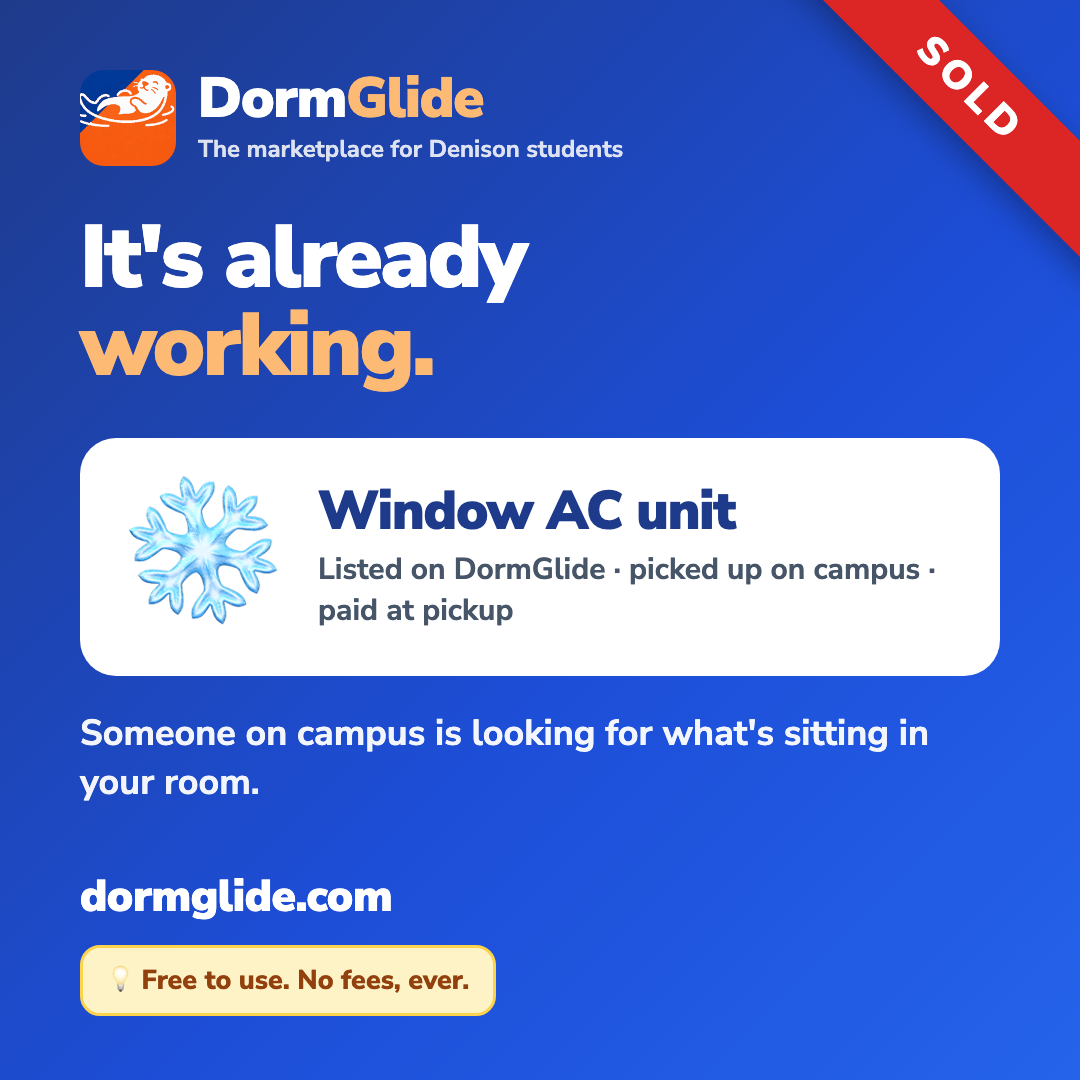
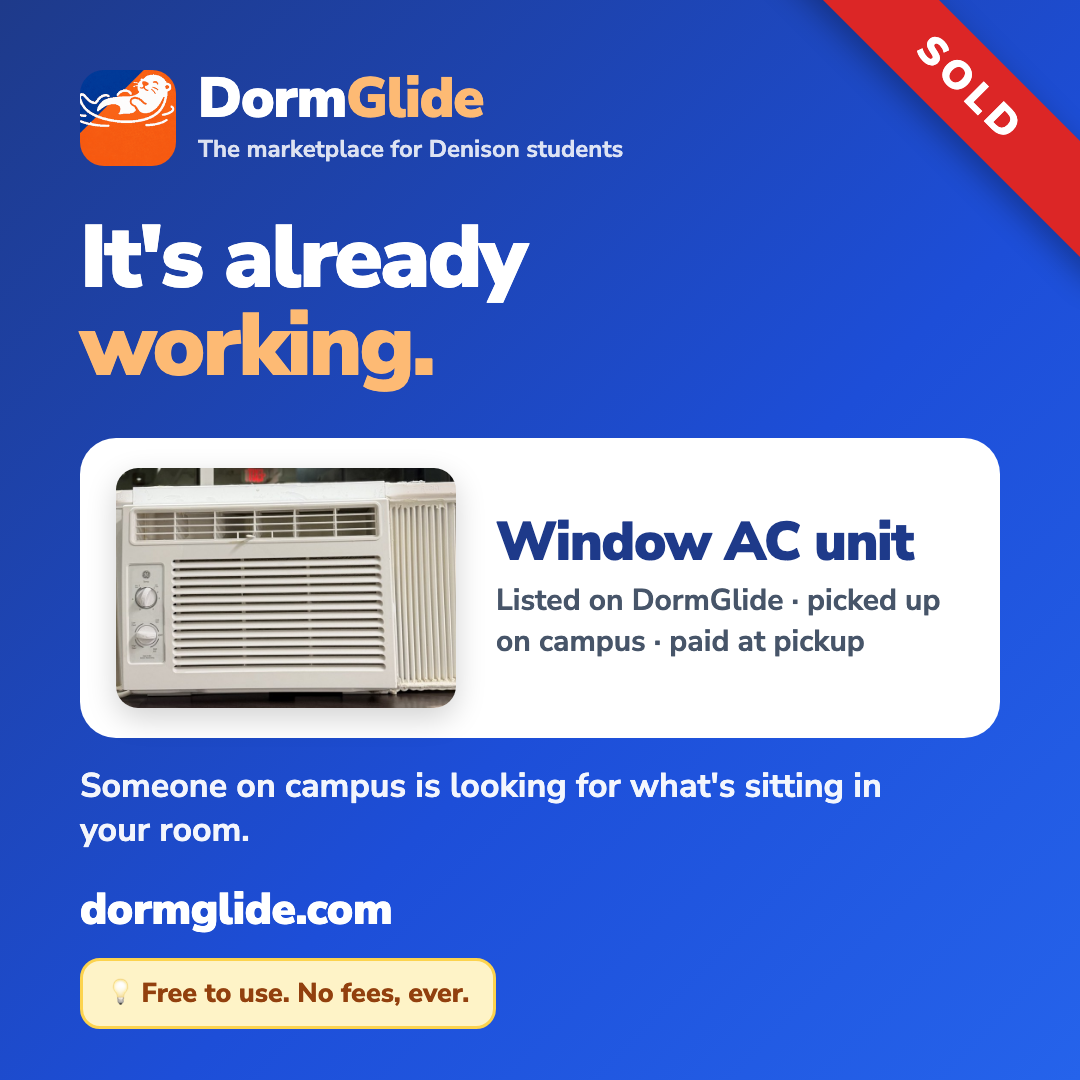
Instagram: AC post uses the real listing photo; class-year hashtags

Changed region(s): [[0.0611, 0.4278, 0.9472, 0.9778]]

diff --git a/marketing/instagram/02-sold-ac.html b/marketing/instagram/02-sold-ac.html
@@ -12,13 +12,13 @@
 .tag { font-size:24px; font-weight:700; opacity:.85; margin-top:6px; }
 h1 { font-size:88px; line-height:1.0; font-weight:900; letter-spacing:-0.03em; margin:48px 0 0; }
 h1 span { color:#fdba74; } .orange h1 span { color:#ffedd5; }
-p.lead { font-size:36px; line-height:1.35; font-weight:700; margin:34px 0 0; max-width:860px; opacity:.95; }
+p.lead { font-size:34px; line-height:1.3; font-weight:700; margin:26px 0 0; max-width:860px; opacity:.95; }
 .steps { margin-top:40px; display:flex; flex-direction:column; gap:18px; }
 .step { display:flex; align-items:center; gap:26px; background:rgba(255,255,255,.14); border:2px solid rgba(255,255,255,.35); border-radius:26px; padding:18px 28px; }
 .step .n { width:64px; height:64px; border-radius:50%; background:#fdba74; color:#1e3a8a; font-size:40px; font-weight:900; display:flex; align-items:center; justify-content:center; flex-shrink:0; }
 .step .t { font-size:33px; font-weight:800; line-height:1.15; }
-.sold { margin-top:48px; background:#fff; color:#1f2937; border-radius:36px; padding:44px 48px; display:flex; align-items:center; gap:40px; }
-.sold .g { font-size:150px; line-height:1; }
+.sold { margin-top:48px; background:#fff; color:#1f2937; border-radius:36px; padding:30px 36px; display:flex; align-items:center; gap:40px; }
+.sold .g { font-size:150px; line-height:1; } .sold img.photo { width:340px; height:240px; object-fit:cover; border-radius:22px; flex-shrink:0; box-shadow:0 10px 30px rgba(0,0,0,.18); }
 .sold .name { font-size:54px; font-weight:900; color:#1e3a8a; letter-spacing:-0.02em; line-height:1.05; }
 .sold .meta { font-size:30px; font-weight:700; color:#475569; margin-top:10px; }
 .ribbon { position:absolute; top:48px; right:-120px; width:460px; transform:rotate(45deg); background:#dc2626; color:#fff; text-align:center; font-size:40px; font-weight:900; letter-spacing:.12em; padding:14px 0; box-shadow:0 10px 30px rgba(0,0,0,.3); }
@@ -27,5 +27,5 @@ p.lead { font-size:36px; line-height:1.35; font-weight:700; margin:34px 0 0; max
 .rule { background:#fef3c7; color:#92400e; border:3px solid #fcd34d; border-radius:20px; padding:14px 24px; font-size:27px; font-weight:800; }
 .otter { position:absolute; right:60px; top:230px; width:380px; opacity:.95; filter:drop-shadow(0 12px 30px rgba(0,0,0,.25)); }
 </style></head><body><div class="post"><div class="top"><img src="otter-mark.png"><div><div class="wm">Dorm<em>Glide</em></div><div class="tag">The marketplace for Denison students</div></div></div><div class="ribbon">SOLD</div><h1>It's already<br><span>working.</span></h1>
-   <div class="sold"><div class="g">❄</div><div><div class="name">Window AC unit</div><div class="meta">Listed on DormGlide · picked up on campus · paid at pickup</div></div></div>
+   <div class="sold"><img class="photo" src="ac.jpg"><div><div class="name">Window AC unit</div><div class="meta">Listed on DormGlide · picked up on campus · paid at pickup</div></div></div>
    <p class="lead">Someone on campus is looking for what's sitting in your room.</p><div class="bottom"><div class="url">dormglide.com</div><div class="rule">💡 Free to use. No fees, ever.</div></div></div></body></html>

diff --git a/marketing/instagram/CAPTIONS.md b/marketing/instagram/CAPTIONS.md
@@ -7,6 +7,7 @@ editable source (open in Chrome → change text → screenshot at 1080×1080).
 Always include in the caption: **dormglide.com** and the rule line.
 Hashtags (pick 5–8): #Denison #DenisonUniversity #DenisonStudents #Granville
 #CollegeLife #DormLife #CampusMarketplace #DormGlide #Glyde #MoveOut #MoveIn
+#Denison2027 #Denison2028 #Denison2029 #Denison2030 (class-year tags — students search these)
 
 ---
 
